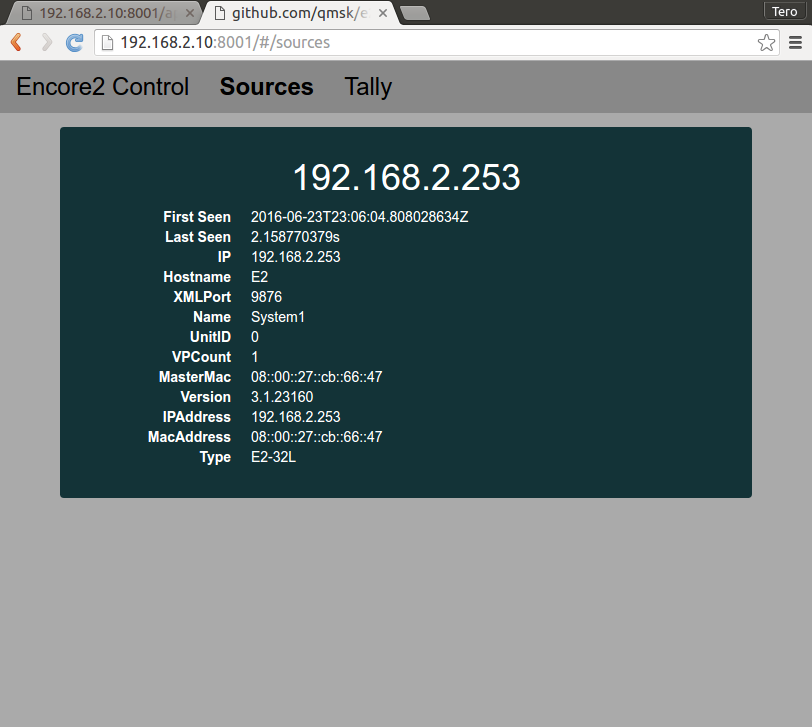
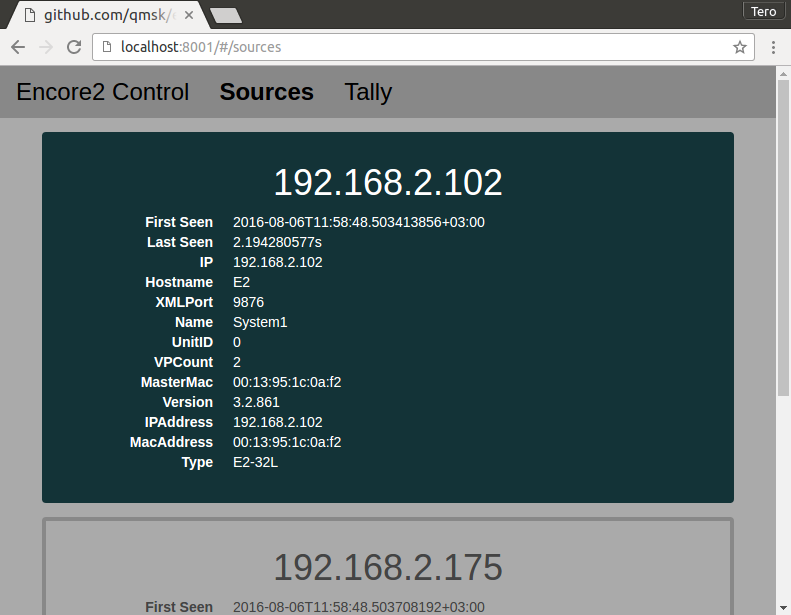
README: tally

diff --git a/README.md b/README.md
@@ -1,8 +1,189 @@
 # qmsk-e2
-E2 Client + REST + WebSocket Server + Web UI
+E2 Client, Tally system, (partial) WebUI
 
-## Web UI
+## Supported Devices
 
+This implementation has been tested with the following device software versions:
+
+* E2 version 3.2
+* S3 version 3.2
+
+This implementation supports the following device APIs:
+
+* TCP port 9876 XML (read-only, live streaming)
+* TCP port 9999 JSON-RPC port (read-only for now, includes preset destinations)
+* UDP port 40961 discovery
+
+## Tally
+
+Tally implementation for following which inputs are active on destinations.
+The tally process connects to any discovered E2 systems, and follows their system state using a read-only
+implementation of the XML protocol.
+Input sources can be tagged with a `tally=ID` in their *Contact* field.
+Each tally ID has *program*, *preview* and *active* status if any input with a matching tally ID is used as the
+program or preview source on any screen destination layer, or Aux output.
+
+## Usage
+
+Build the golang binary:
+
+    go get ./cmd/tally
+
+Tag the relevant inputs in EMTS with `tally=ID` in their Contact details field:
+
+![EMTS Contact field](/docs/tally-emts-contact.png?raw=true)
+
+Run the tally software using a network interface connected to the same network as the E2 device:
+
+    $GOPATH/bin/tally --discovery-interface=eth0
+
+## Outputs
+
+The tally state can be output on a HTTP REST/WebSocket API, on GPIO pins, or RGB LEDs on the SPI bus.
+
+### Web API and UI
+
+The Web output provides an JSON REST API, a JSON WebSocket API, and an AngularJS frontend.
+
+    --http-listen=:8001 --http-static=./static
+
+The `--http-static` is optional, and is only needed for the UI.
+
+Example JSON `http://localhost:8001/api/tally` output:
+
+	{
+	   "Inputs" : [
+		  {
+			 "Name" : "DVI 1",
+			 "Source" : "192.168.2.102",
+			 "ID" : 2,
+			 "Status" : "ok"
+		  }
+	   ],
+	   "Errors" : null,
+	   "Tally" : [
+		  {
+			 "Outputs" : [
+				{
+				   "Name" : "ScreenDest1",
+				   "Active" : true,
+				   "Program" : true,
+				   "Preview" : true,
+				   "Source" : "192.168.2.102"
+				},
+				{
+				   "Preview" : true,
+				   "Source" : "192.168.2.102",
+				   "Program" : true,
+				   "Active" : true,
+				   "Name" : "ScreenDest2"
+				},
+				{
+				   "Program" : true,
+				   "Source" : "192.168.2.102",
+				   "Preview" : true,
+				   "Name" : "Mon",
+				   "Active" : false
+				}
+			 ],
+			 "Inputs" : [
+				{
+				   "Source" : "192.168.2.102",
+				   "ID" : 2,
+				   "Status" : "ok",
+				   "Name" : "DVI 1"
+				}
+			 ],
+			 "Errors" : null,
+			 "Active" : true,
+			 "ID" : 2,
+			 "Preview" : true,
+			 "Program" : true
+		  }
+	   ]
+	}
+
+The same JSON document is also published on `ws://localhost:8001/events` in the `{"tally": { ... }}` format whenever it is updated.
+A HTTP `Origin:` header must be set.
+
+The Web UI uses this WebSocket stream to display a live-updating tally state:
+
+![Tally Web UI](/docs/tally-web.png?raw=true)
+
+The Web UI also includes a list of discovered sources and their status, including possible connection errors:
+
+![Tally Web UI](/docs/tally-sources.png?raw=true)
+
+## GPIO
+
+Support for Linux RaspberryPI GPIO output using `/sys/class/gpio`. Use the `--gpio` options to configure:
+    
+    $GOPATH/bin/tally ... --gpio --gpio-green-pin=23 --gpio-red-pin=24 --gpio-tally-pin=21 --gpio-tally-pin=20 --gpio-tally-pin=16 --gpio-tally-pin=12 --gpio-tally-pin=26 -gpio-tally-pin=19 --gpio-tally-pin=13 --gpio-tally-pin=6
+
+The `--gpio-green-pin=` and `--gpio-red-pin=` are used for the status of the tally system itself:
+
+| Green     | Red      | Status                          |
+|-----------|----------|---------------------------------|
+| Off       | Off      | Not running.                    |
+| Off/Blink | Off      | Discovering.                    |
+| On/Blink  | Off      | Connected with tally inputs.    |
+| On/Blink  | Blinking | Partially connected.            |
+| Off/Blink | Blinking | Reconnecting.                   |
+
+Each `--gpio-tally-pin=` is used for sequentially numbered tally ID output. Passing eight `--gpio-tally-pin=` options will enable tally output for IDs 1, 2, 3, 4, 5, 6, 7 and 8.
+The GPIO pin will be set high if the tally input is output on program, and low otherwise.
+
+## SPI-LED
+
+Support for APA102 RGB LEDs connected to the Linux RaspberryPI SPI bus using `/dev/spidev`. Use the `--spiled` options to configure:
+
+      --spiled-channel=            /dev/spidev0.N
+      --spiled-speed=
+      --spiled-protocol=           Type of LED
+      --spiled-count=              Number of LEDs
+      --spiled-debug               Dump SPI output
+      --spiled-intensity=
+      --spiled-refresh=
+      --spiled-tally-idle=
+      --spiled-tally-preview=
+      --spiled-tally-program=
+      --spiled-tally-both=
+      --spiled-status-idle=
+      --spiled-status-ok=
+      --spiled-status-warn=
+      --spiled-status-error=
+      --spiled                     Enable SPI-LED output
+
+Supported protocols:
+
+* `apa102` standard APA102 LEDs
+* `apa102x` variant of APA-102 using 0x00 stop frames.
+
+Example:
+
+	tally ... --spiled --spiled-channel=0 --spiled-speed=100000 --spiled-protocol=apa102x --spiled-count=2 --spiled-tally-idle=000010
+
+The first SPI-LED is used as a status LED, use the `--spiled-status-*` options to configure output colors:
+
+| Option                   | Default Color   | Meaning
+|--------------------------|-----------------|-----------
+| `--spiled-status-idle=`  | 0000ff (Blue)   | Discovering
+| `--spiled-status-ok=`    | 00ff00 (Green)  | Connected
+| `--spiled-status-warn=`  | ffff00 (Orange) | Partially connected
+| `--spiled-status-error=` | ff0000 (Red)    | Disconnected
+
+The remaining LEDs are used for sequentially numbered tally ID output. Use the `--spiled-tally-*` options to configure output colors:
+
+| Option                    | Default Color     | Meaning
+|---------------------------|-------------------|------
+|                           | Off               | No tally input configured
+| `--spiled-tally-idle=`    | 000010 (Dim Blue) | Not active on any outputs
+| `--spiled-tally-preview=` | 00ff00 (Green)    | Preview on active destination
+| `--spiled-tally-program=` | ff0000 (Red)      | Program on destination
+| `--spiled-tally-both=`    | ff4000 (Orange)   | Program on destination, and Preview on active destination
+
+## Server (Web UI)
+    
 ### System
 Raw System state, represented as a collapsible JSON object, live-updated from the `/events` WebSocket:
 
@@ -282,19 +463,11 @@ The same output can be followed using `client listen` and `client listen --json`
 
 ## Client
     
-    go get ./cmd/server
+    go install ./cmd/client
 
 Useful for testing the client library:
 
     $GOPATH/bin/client --e2-address=192.168.0.100 listen
-
-### Support
-
-The client library (`github.com/qmsk/e2/client`) provides partial support for the following E2 APIs:
-* TCP XML (read-only, streaming)
-* JSON-RPC (read-only for now, includes preset destinations)
-
-The discovery library (`github.com/qmsk/e2/discovery`) supports UDP broadcast discovery of connected E2 systems.
 
 ### Usage:
 
